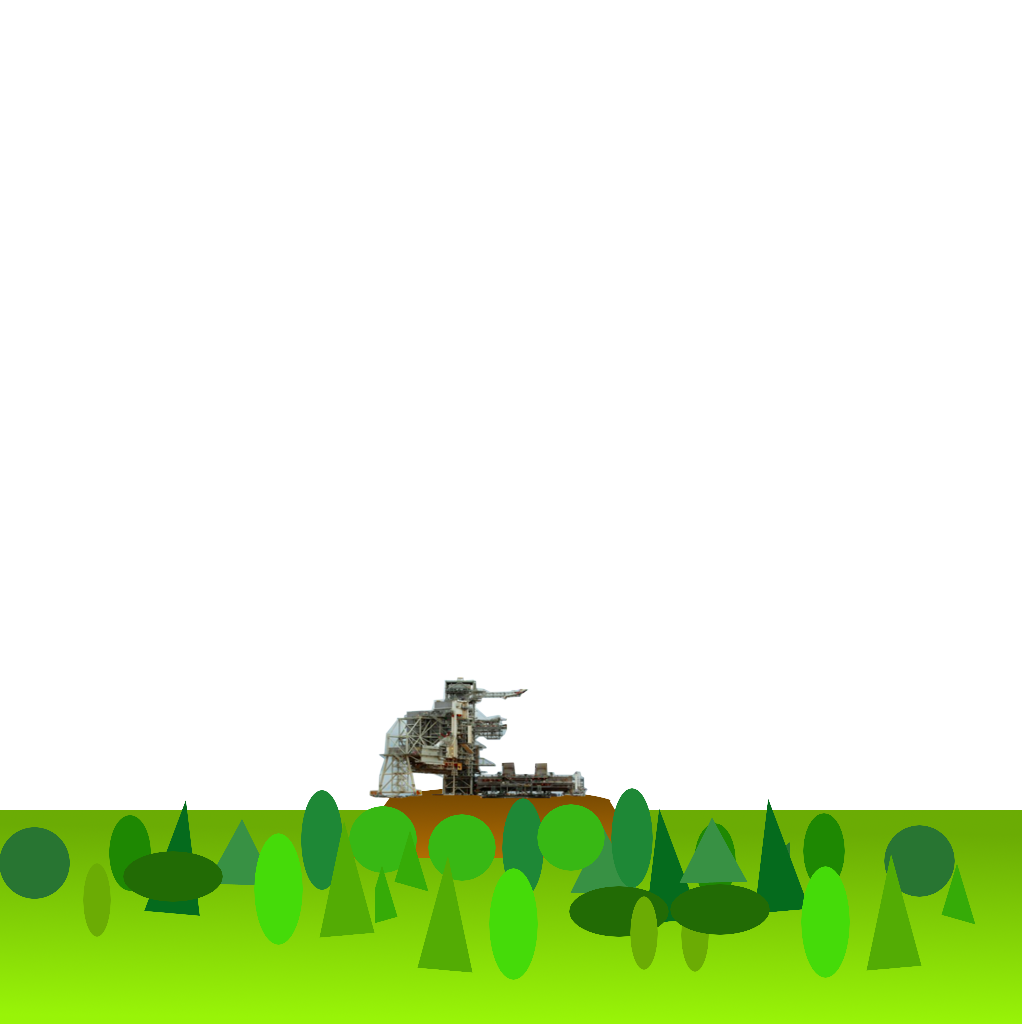
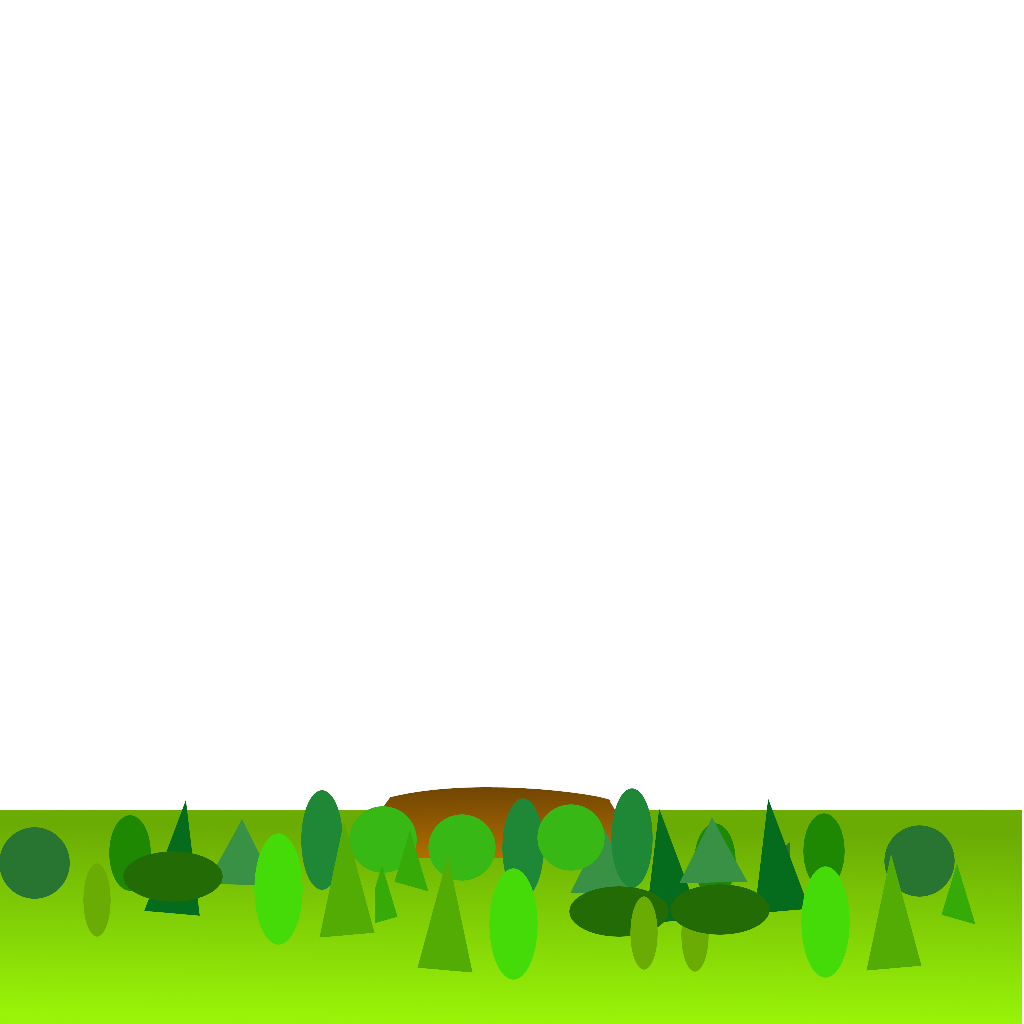
sprite order

Changed region(s): [[0.3438, 0.6562, 0.5938, 0.7812]]

diff --git a/js/Preloader.js b/js/Preloader.js
@@ -27,6 +27,7 @@ BasicGame.Preloader.prototype = {
 		this.load.image('titlepage', 'images/title.jpg');
 		this.load.image('launch', 'images/launch.jpg');
 		this.load.image('launchPad', 'images/launchpad.png');
+		this.load.image('crane', 'images/crane.png');
 		this.load.atlasJSONHash('playButton', 'images/play_button1.png', 'images/play_button1.json');
 		this.load.atlasJSONHash('shuttle', 'images/shuttle.png', 'images/shuttle.json');
 		this.load.audio('titleMusic', ['audio/Jupiter.ogg']);

diff --git a/js/Game.js b/js/Game.js
@@ -52,6 +52,7 @@ BasicGame.Game.prototype = {
 		this.add.sprite(0,0, 'launch');
 		player = this.add.sprite(504, 9899, 'shuttle', 'shuttle.png');
 		this.add.sprite(0, 9216, 'launchPad');
+		this.add.sprite(0, 9216, 'crane');
 		this.camera.setPosition(1024, 10240);
 		
 		music = this.add.audio('launchMusic');
